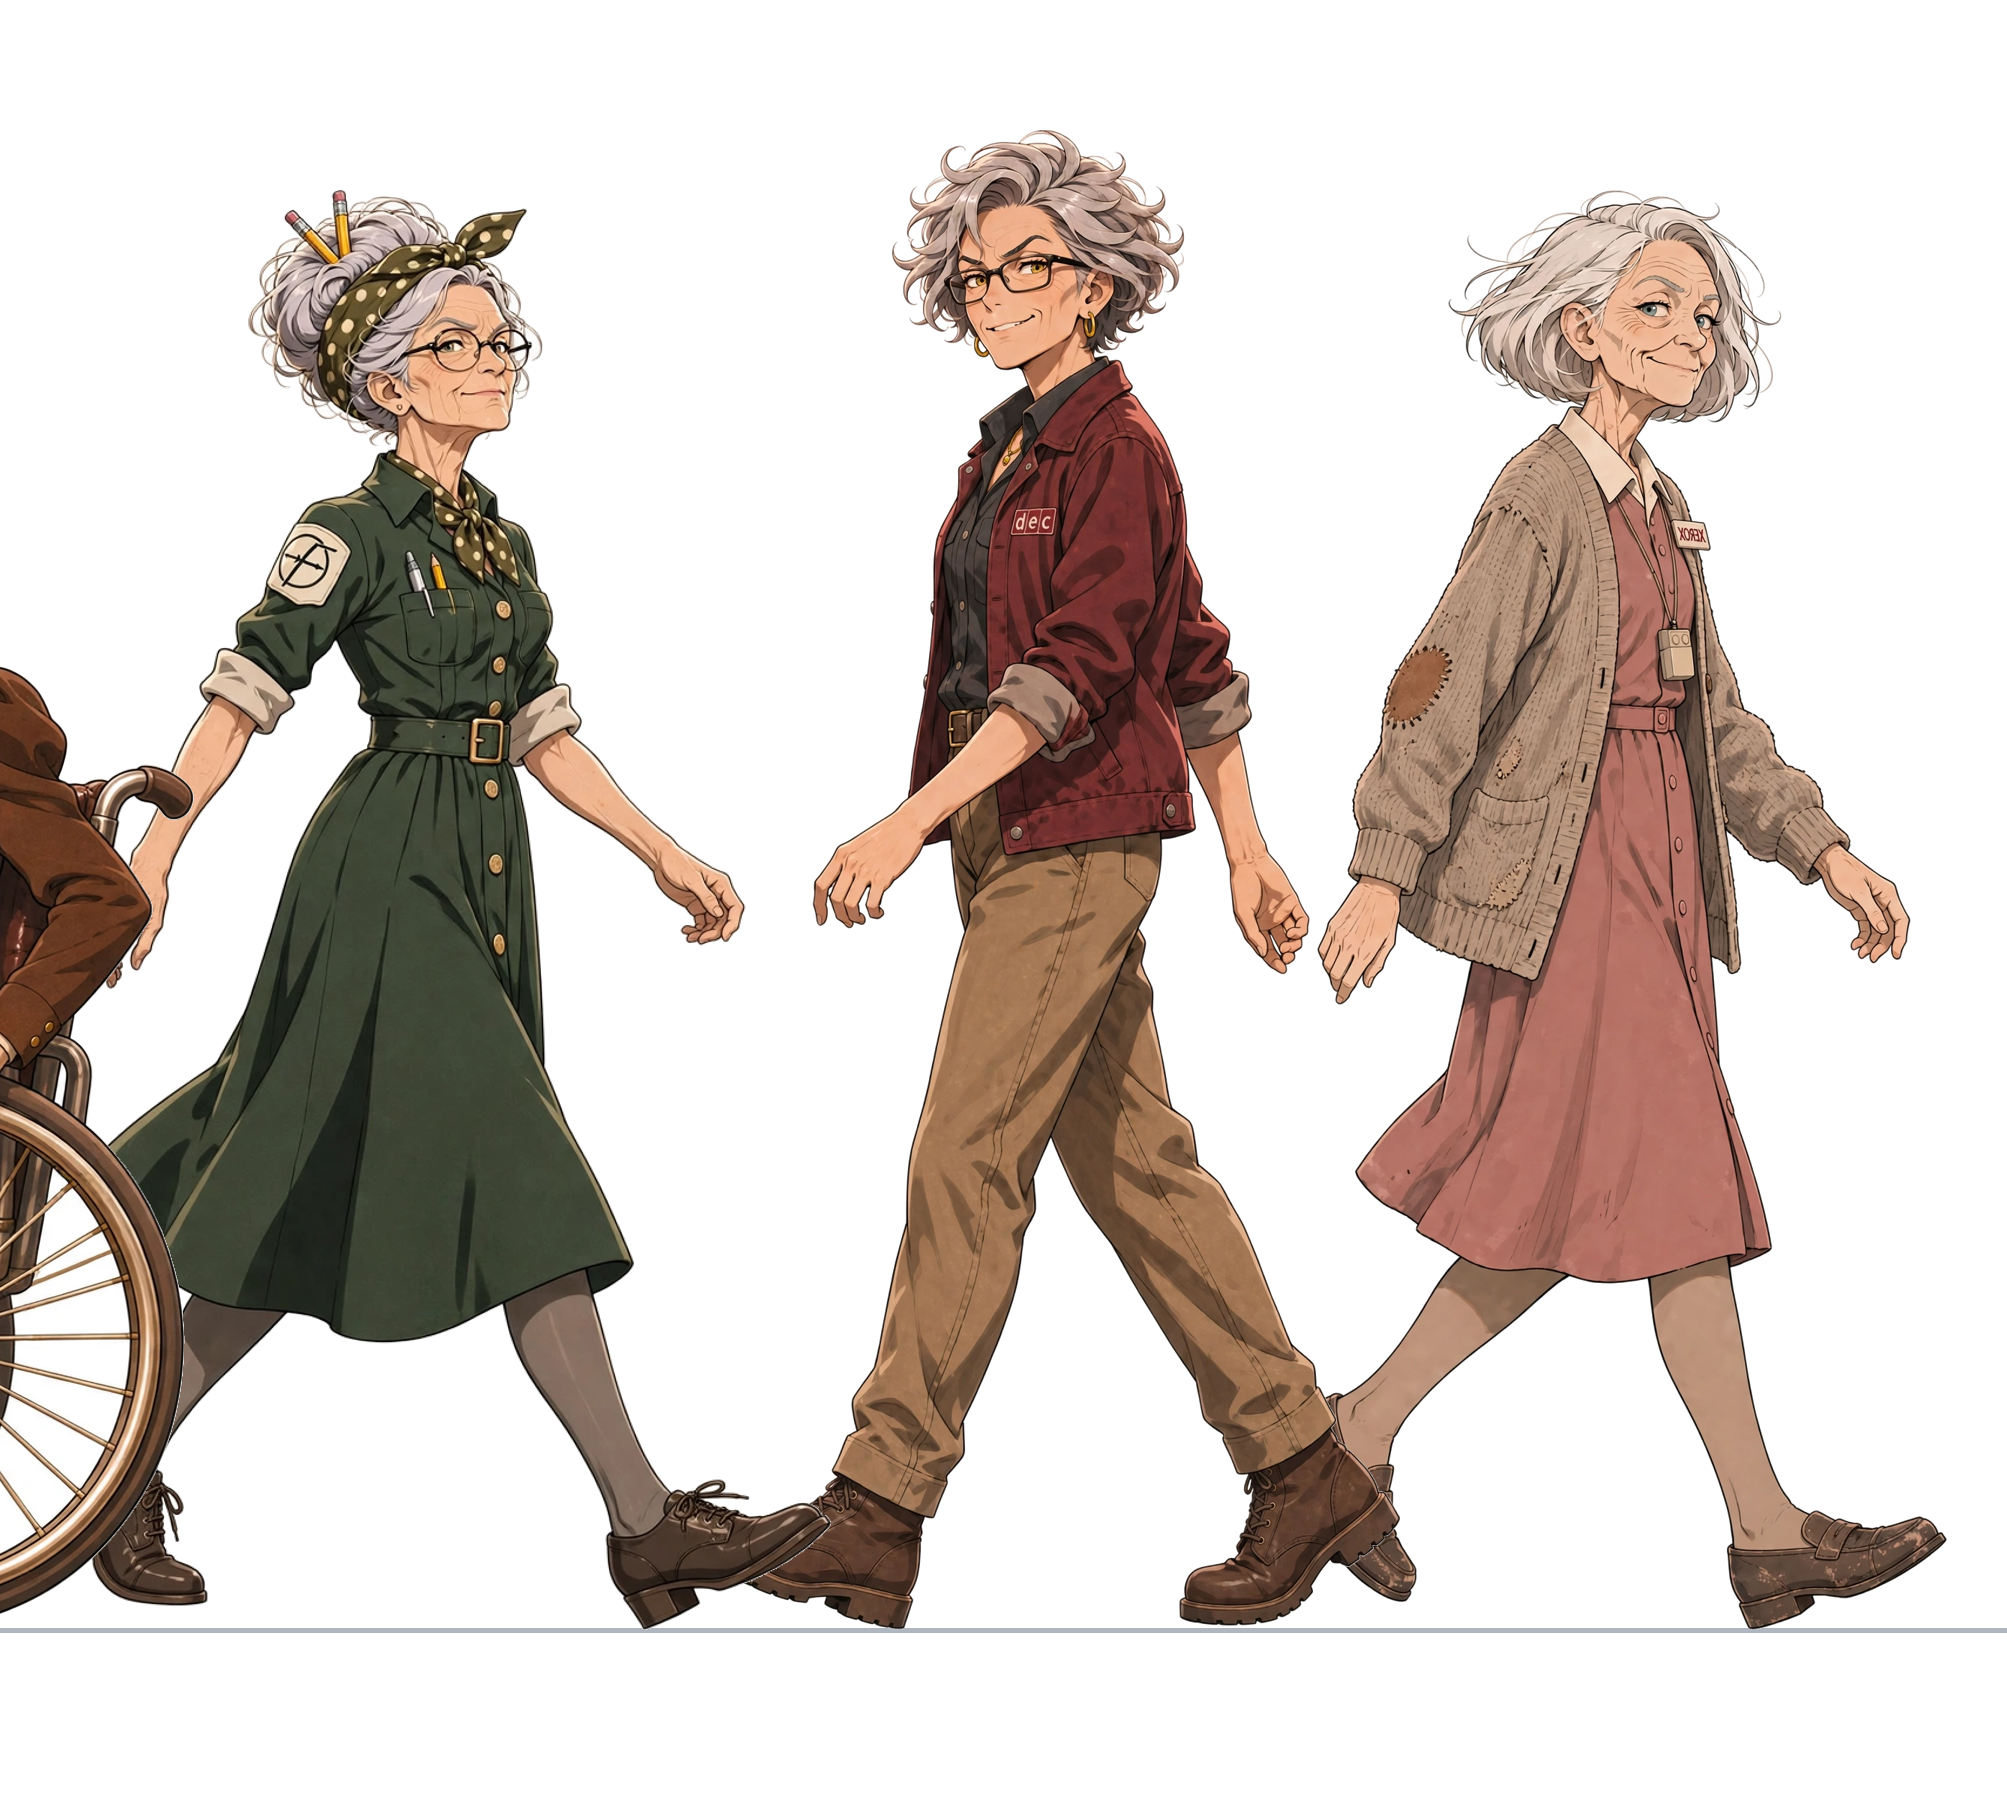
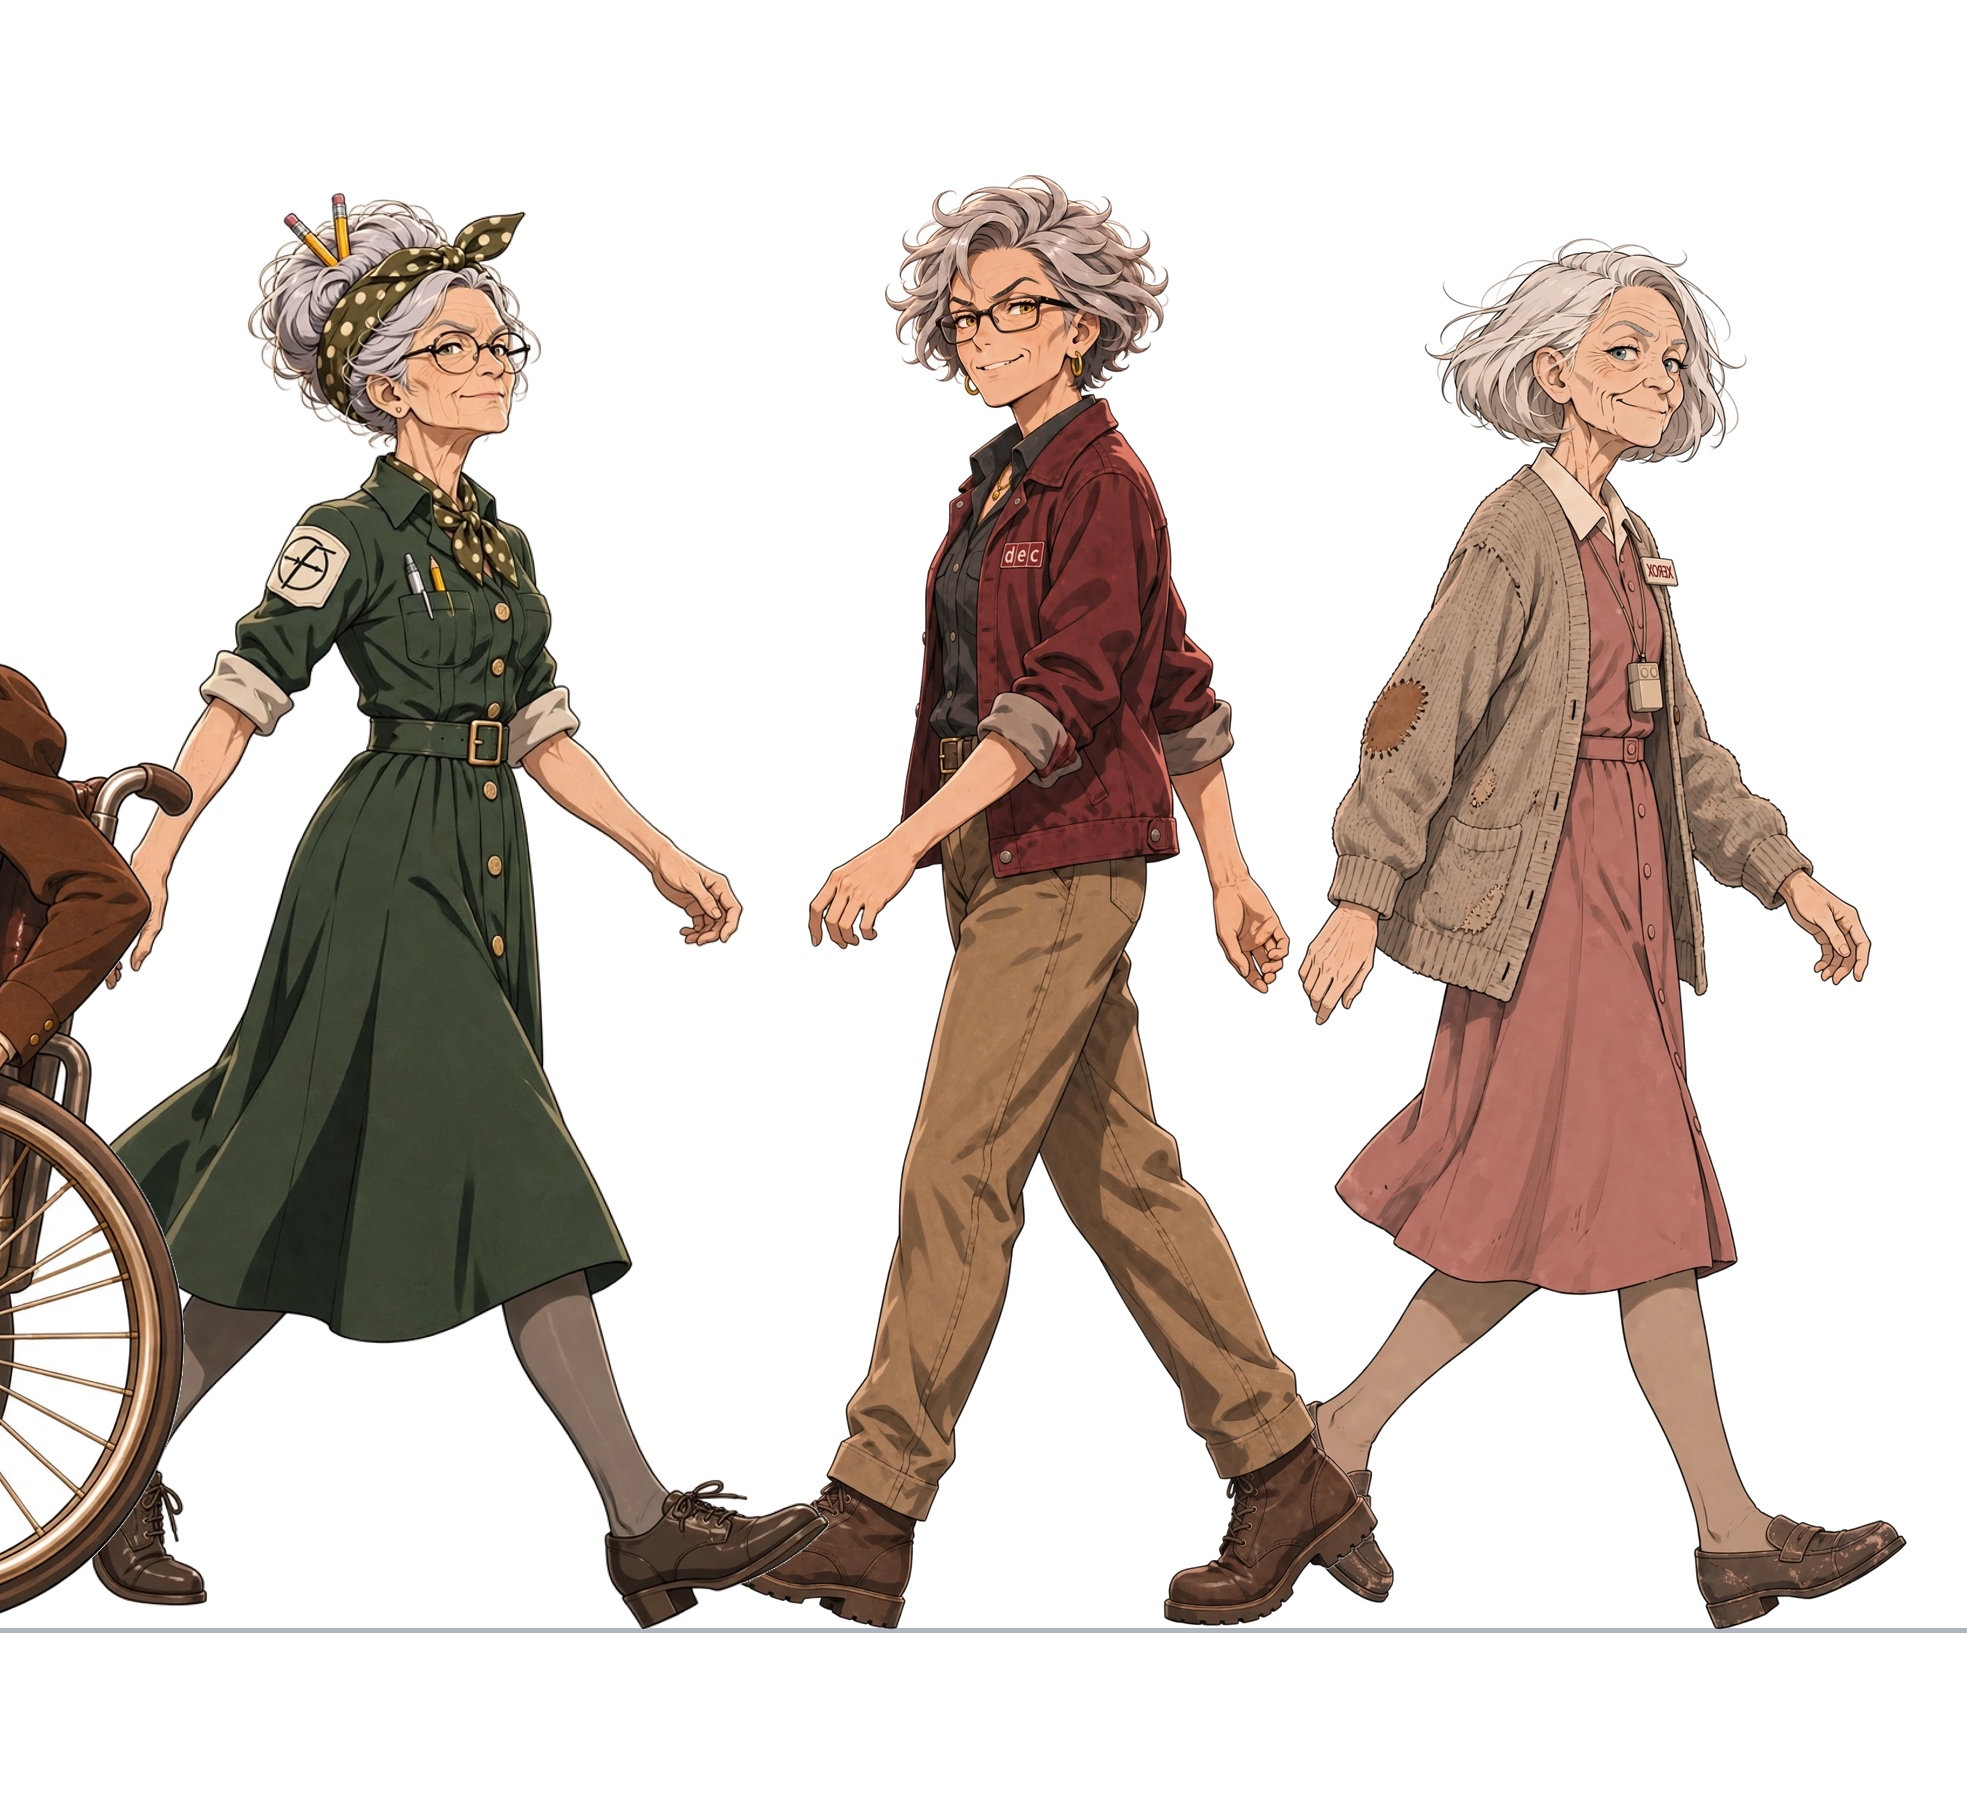
Add canonical height_cm to the roster; ED Walk scales from it
characters/roster.json gains a height_cm for all 32 characters,
inserted after age. Values follow the portfolio's own hints: Nvidia
tallest (178, the cast's strongest presence), Samsung tall vs
SK hynix wide (174 vs 161, per her art prompt), Arm explicitly
petite (150), the AI Academy elementary kids drawn small
(100-107), Hugging Face and Cerebras as middle-schoolers (118/116),
the grandmother generation a touch under the adults. The numbers
are proposals in data form: correct any of them and every lineup
follows.

tools/build_ed_walk.py now scales by height_cm / 168 (Bell Labs'
155 is standing-equivalent; a 0.87 seated factor applies in the
wheelchair), replacing the hand-set ladder. Panorama rebuilt
(18967x1820).

diff --git a/tools/build_ed_walk.py b/tools/build_ed_walk.py
@@ -8,9 +8,9 @@ Pipeline (modular, per the parade-composition method):
      distance-based alpha. Interior background-colored regions (white coats,
      pale hair) are not connected to the border and stay opaque.
   3. Composite: roster order left to right (the march heads left), one flat
-     ground plane, slight overlap painted rear-first, heights scaled by age
-     class from characters/roster.json (adults 1.00, Nvidia 1.06, kids 0.68,
-     tweens 0.76, grandmothers 0.96, Bell Labs seated 0.80).
+     ground plane, slight overlap painted rear-first, heights scaled by
+     height_cm from characters/roster.json (scale = height_cm / 168;
+     Bell Labs seated gets an extra 0.87 factor on her standing height).
   4. Outputs: ed-walk-full.png plus six posting slices cut at figure
      boundaries so X/Facebook carousels stitch seamlessly.
 
@@ -129,27 +129,18 @@ def build_cutouts():
         print('cutout', slug, '(sheet side view)', result.size)
 
 
-# Height ladder is explicit per character: roster.json carries no heights and
-# only coarse age labels, and substring-matching those labels misfired before.
-ELEMENTARY = ('anthropic', 'openai', 'xai', 'mistral-ai', 'deepseek')  # AI Lab kids
-OLDER_CHILD = ('huggingface', 'cerebras')  # middle-schoolers
-YOUNG_ADULT = ('arm', 'qualcomm', 'marvell')  # 19-20
+# Parade heights come from roster.json's height_cm (added 2026-11-11):
+# scale = height_cm / REFERENCE_CM, so editing a roster height rescales
+# the character here automatically. Bell Labs' height_cm is her
+# standing-equivalent height; seated in her wheelchair her figure's
+# bounding box sits lower, hence the extra factor.
+REFERENCE_CM = 168
+SEATED_FACTOR = {'bell-labs': 0.87}
 
 
-def scale_for(slug, age):
-    if slug in ELEMENTARY:
-        return 0.55
-    if slug in OLDER_CHILD:
-        return 0.66
-    if slug in YOUNG_ADULT:
-        return 0.94
-    if slug == 'nvidia':
-        return 1.06
-    if slug == 'bell-labs':
-        return 0.80
-    if 'senior' in age or 'elder' in age:
-        return 0.96
-    return 1.00
+def scale_for(entry):
+    slug = entry['slug']
+    return entry['height_cm'] / REFERENCE_CM * SEATED_FACTOR.get(slug, 1.0)
 
 
 def build_composite():
@@ -159,7 +150,7 @@ def build_composite():
     for entry in roster:
         slug = entry['slug']
         im = Image.open(ART / 'cutouts' / f'{slug}.png')
-        h = int(BASE_HEIGHT * scale_for(slug, entry.get('age', 'adult')))
+        h = int(BASE_HEIGHT * scale_for(entry))
         w = int(im.width * h / im.height)
         figures.append((slug, im.resize((w, h)), w, h))
         xs.append(x)

diff --git a/art/ed-walk/README.md b/art/ed-walk/README.md
@@ -24,16 +24,15 @@ than a single crowd generation, so no character's traits bleed into another's.
 
 - Order: roster order, grouped by faction — Silicon Kingdoms lead, the
   Grandmother Generation brings up the rear; Bell Labs rolls in her wheelchair.
-- Heights (the frieze doubles as a height chart; the portfolio itself has
-  no height data — roster.json carries only coarse age labels — so the
-  ladder is set explicitly per character in tools/build_ed_walk.py):
-  adults 1.00, Nvidia 1.06 as the cast's strongest presence, the AI Lab
-  elementary kids (Anthropic, OpenAI, xAI, Mistral, DeepSeek) 0.55, the
-  middle-schoolers (Hugging Face, Cerebras) 0.66, Arm/Qualcomm/Marvell
-  0.94 as 19–20-year-old young adults, the grandmothers 0.96, Bell Labs
-  0.80 seated. (The first build's kids at 0.68 read too big at review,
-  and an age-string substring bug had shrunk the young adults to kid
-  size; both are fixed.)
+- Heights (the frieze doubles as a height chart): every character now
+  has a canonical height_cm in characters/roster.json, and the composite
+  scales each figure by height_cm / 168. Edit a roster height and the
+  parade rescales her automatically. Bell Labs' 155 cm is her
+  standing-equivalent height; seated in her wheelchair the composite
+  applies an extra 0.87 factor. (The first builds guessed a ladder from
+  roster age labels: kids read too big at 0.68, and an age-string
+  substring bug shrank the young adults to kid size; both superseded
+  by the roster data.)
 - Figures overlap slightly, painted rear-of-march first so the front of the
   march layers on top.
 
